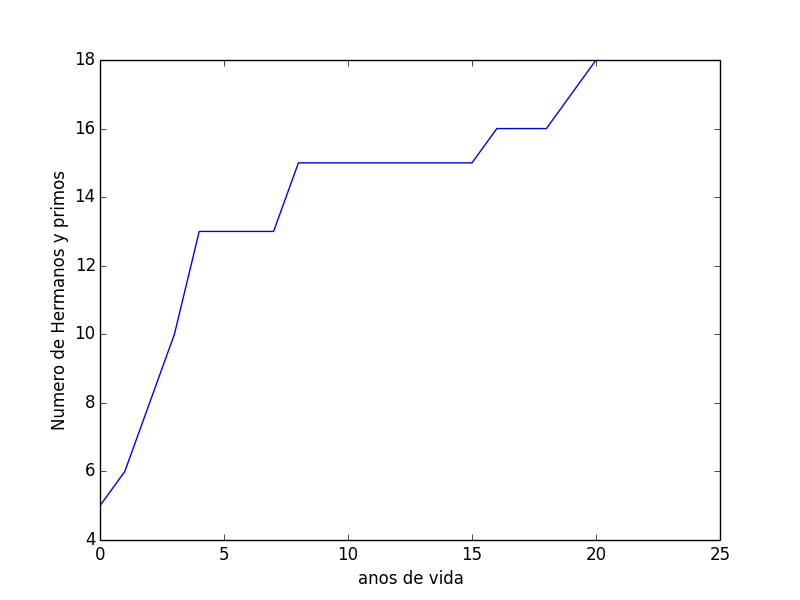
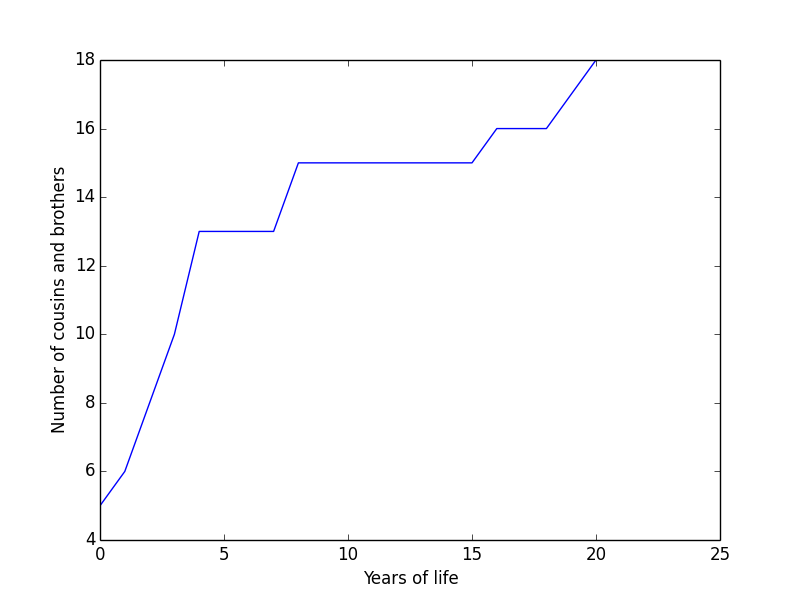
tarea1

Changed region(s): [[0.0625, 0.27, 0.0938, 0.72], [0.4375, 0.93, 0.5938, 0.99]]

diff --git a/tarea1.py b/tarea1.py
@@ -3,8 +3,8 @@ import matplotlib.pyplot as plt
 #Construimos el objeto plt introduciendo valores que se grafican contra el numero de entrada. Por ejemplo si queremos graficar el crecimiento de un material por dia en centimetros. 
 plt.plot([5,6,8,10,13,13,13,13,15,15,15,15,15,15,15,15,16,16,16,17,18,18])
 #Con esta isntruccion colocamos un titulo al eje Y de la grafica. 
-plt.ylabel('Numero de Hermanos y primos')
-plt.xlabel('anos de vida')
+plt.ylabel('Numer of cousins and brothers')
+plt.xlabel('Years of life')
 #Con esta isntruccion guardamos la imagen con el formato que queramos.
 plt.savefig('tarea1.png')
 #Con esta instruccion mostramos la figura. 
